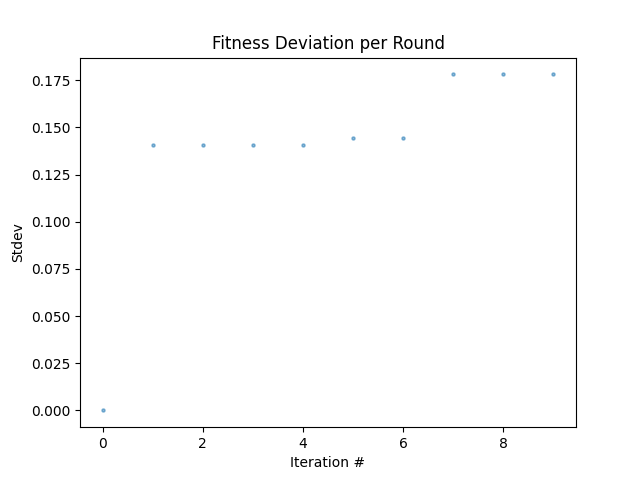
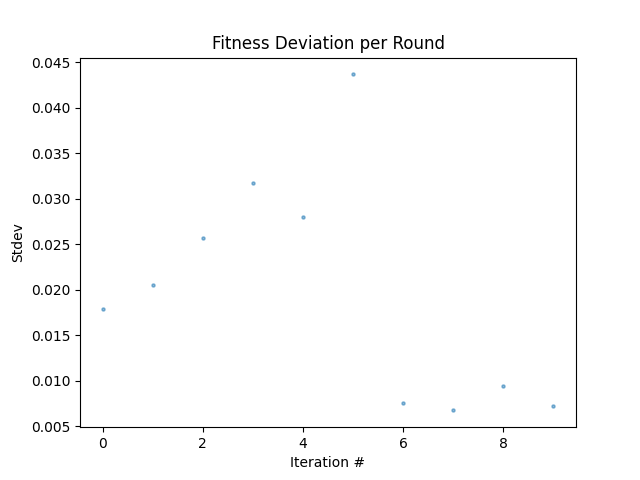
fix to pop size error + iteration based cutoff

diff --git a/source/genetic_algorithm/population.py b/source/genetic_algorithm/population.py
@@ -18,13 +18,18 @@ def scale_to_prob_dist(weights: List[float]) -> List[float]:
 class Population:
 
     mutation_rate = 0.1
-    elitist_cutoff = 0.25
 
-    def __init__(self, networks: List[Chromosome], initial_metrics: NetworkMetrics, ZoneEvaluator: ZoneEvaluator, fitness_function, breeding_function):
+    def __init__(self, networks: List[Chromosome], 
+                       initial_metrics: NetworkMetrics, 
+                       ZoneEvaluator: ZoneEvaluator, 
+                       fitness_function, 
+                       breeding_function, 
+                       elitist_cutoff):
         self.population = networks
         self.population_size = len(networks)
         self.fitness_function = fitness_function
         self.breeding_function = breeding_function
+        self.elitist_cutoff = elitist_cutoff
         self.iteration_number = 1
         self.performance_dict = {}
         self.per_round_metrics = []
@@ -60,10 +65,15 @@ class Population:
     
     def select_parents(self, pool: List[Chromosome]) -> Tuple[Chromosome, Chromosome]:
         weights = scale_to_prob_dist([self.performance_dict[m.unique_id].fitness for m in pool])
-
-        [parent_1, parent_2] = np.random.choice(pool, 
-                                                     size=2, replace=False, 
-                                                     p=weights)
+        
+        if len(pool) == 0:
+            RootLogger.log_error(f'Attempt to sample parent network from empty pool!')
+            raise ValueError
+        if len(pool) < 2:
+            [parent_1, parent_2] = [pool[0], pool[0]]
+        else:
+            [parent_1, parent_2] = np.random.choice(pool, size=2, replace=False, p=weights)
+            
         return parent_1, parent_2
     
     def breed_children(self, pool_of_parents: List[Chromosome], child_num: int) -> Chromosome:
@@ -107,7 +117,8 @@ class Population:
 
         # Select best performing networks
         RootLogger.log_debug(f'Performing Elitist Selection on population.')
-        elitist_num = int(self.elitist_cutoff*self.population_size)
+        percent_cutoff = self.elitist_cutoff(self.iteration_number)
+        elitist_num = int(percent_cutoff*self.population_size)
         sorted_by_performance = sorted(self.population, key=lambda mem: self.performance_dict[mem.unique_id].fitness, reverse=True)
         top_performers = sorted_by_performance[:elitist_num]
         bot_performers = sorted_by_performance[elitist_num:]

diff --git a/source/genetic_algorithm/initial_population_generator.py b/source/genetic_algorithm/initial_population_generator.py
@@ -1,4 +1,4 @@
-from typing import List, Tuple, Dict
+from typing import List, Dict
 import random
 from statistics import mean, median, stdev
 import pprint
@@ -12,6 +12,7 @@ from genetic_algorithm.fitness_function import evaluate_network, evaluate_networ
 from genetic_algorithm.breeder import breed_networks
 from genetic_algorithm.network_metrics import NetworkMetrics
 from genetic_algorithm.zone_evaluator import ZoneEvaluator
+from genetic_algorithm.params import cutoff_by_round
     
 def generate_population(initial_network: TransitNetwork, population_size: int, do_print_metrics: bool = True) -> List[TransitNetwork]:
     RootLogger.log_debug(f'Generating initial population of size {population_size} from {initial_network.id}')
@@ -97,4 +98,9 @@ def initiate_population_from_network(network: TransitNetwork, size: int) -> Popu
     init_network_metrics = NetworkMetrics(network)
     initial_population = [Chromosome(net) for net in initial_networks]
     ZoneEV = ZoneEvaluator(network)
-    return Population(initial_population, init_network_metrics, ZoneEV, evaluate_network_new, breed_networks)
+    return Population(networks= initial_population, 
+                      initial_metrics= init_network_metrics, 
+                      ZoneEvaluator= ZoneEV, 
+                      fitness_function= evaluate_network_new, 
+                      breeding_function= breed_networks, 
+                      elitist_cutoff= cutoff_by_round)

diff --git a/source/main.py b/source/main.py
@@ -19,7 +19,7 @@ def run_from_network(num_generations: int, population_size: int, initial_network
     RootLogger.log_info(f'Running network {initial_network_path} for {num_generations} with size {population_size}. Sending results to {output_dir}.')
 
     Network = read_object_from_file(initial_network_path)
-    Pop = initiate_population_from_network(Network, 10)
+    Pop = initiate_population_from_network(Network, population_size)
     res = Pop.run(num_generations)
     if not os.path.exists(output_dir):
         os.makedirs(output_dir)
@@ -48,7 +48,7 @@ def examine_best_performer(output_dir: str):
 
 if __name__ == '__main__':
     # plot_zones()
-    num_generations = 50
+    num_generations = 100
     population_size = 100
     initial_network_path_input = './data/new_initial_net.pkl'
     run_from_network(num_generations, population_size, initial_network_path=initial_network_path_input)

diff --git a/source/genetic_algorithm/zone_evaluator.py b/source/genetic_algorithm/zone_evaluator.py
@@ -75,7 +75,7 @@ SUBURB_ZONES = [z for z in ZONES if z != DOWNTOWN_ZONE]
 
 class ZoneEvaluator:
 
-    zone_paths = [p for p in create_paths_to_downtown(DOWNTOWN_ZONE, ZONES, 1.0)] + [p for p in fully_connect_zones(SUBURB_ZONES, 0.5)]
+    zone_paths = [p for p in create_paths_to_downtown(DOWNTOWN_ZONE, SUBURB_ZONES, 1.0)] #+ [p for p in fully_connect_zones(SUBURB_ZONES, 0.5)]
 
     def __init__(self, initial_network: TransitNetwork):
         self.initial_network = initial_network

diff --git a/source/genetic_algorithm/params.py b/source/genetic_algorithm/params.py
@@ -80,6 +80,8 @@ Z12_LON = -122.436089
 Z12_NAME = "Marina District"
 Z12_COLOR = "olive"
 
+def cutoff_by_round(iteration: int) -> float:
+    return 0.1
 
 def sum_of_fitness_coefficients():
     return RIDERSHIP_LAMBDA + NUM_ROUTES_LAMBDA + COVERAGE_LAMBDA + RIDERSHIP_DENSITY_LAMBDA + ZONE_LAMBDA
